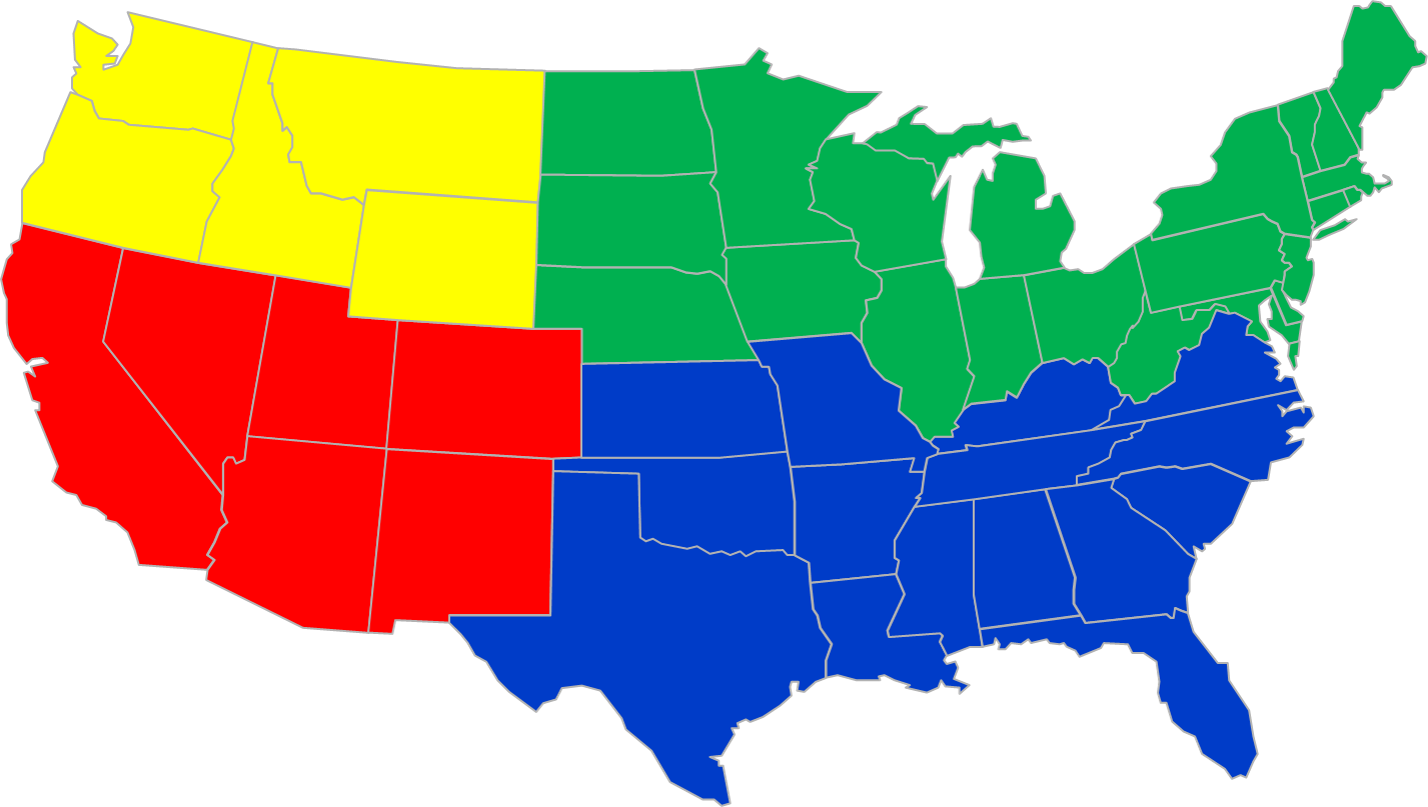
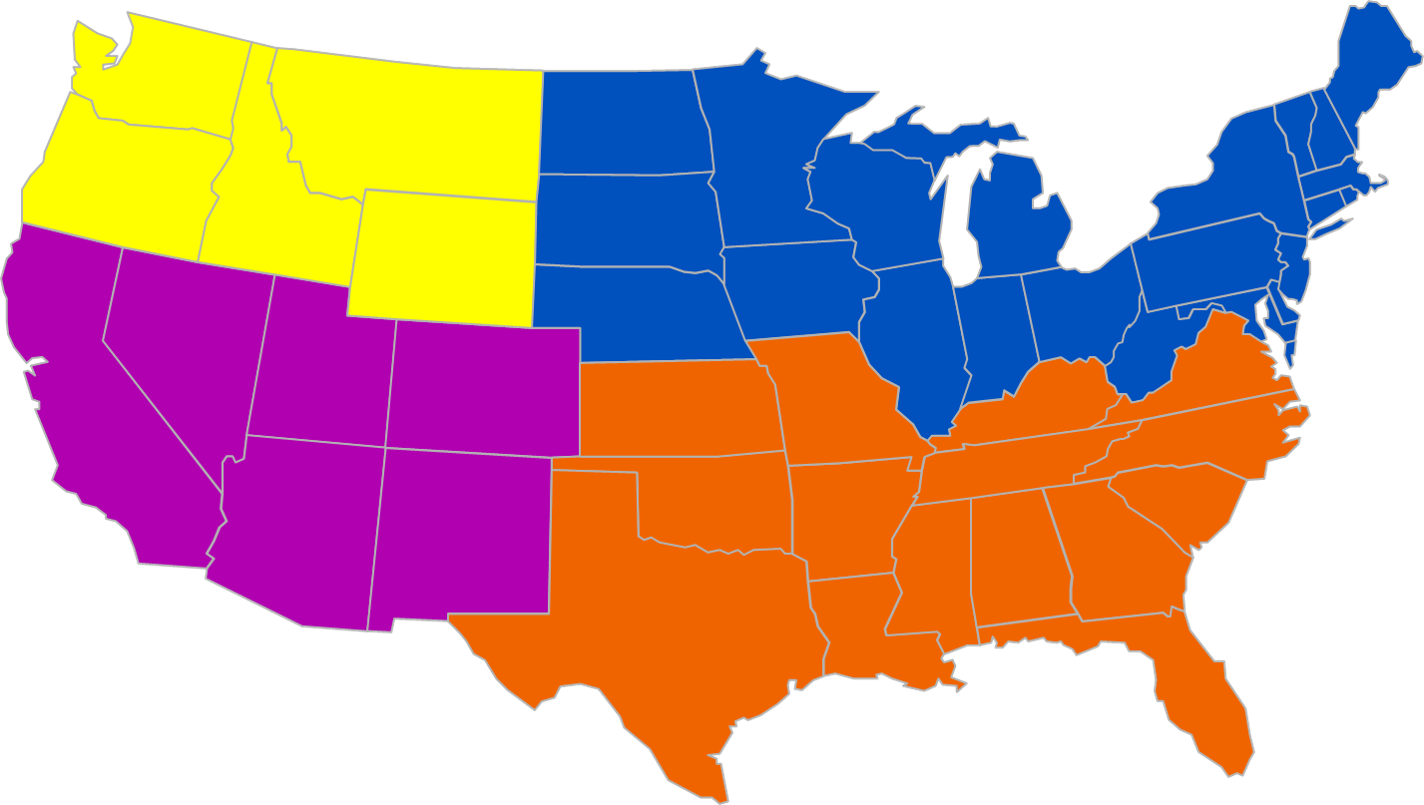
legend colors updated. legend improvement.

diff --git a/chord/index2.html b/chord/index2.html
@@ -171,17 +171,17 @@ d3.csv("cities.csv", function(cities){
     if (city[i].quad == "NW") NW++;
   };
 
-  //NE is green
+  //NE is blue
   var NE_color = d3.scale.linear()
     .domain([0,NE+1])
     .range([d3.rgb(0,165,255),d3.rgb(0,0,124)]);
 
-  //SE is blue
+  //SE is orange
   var SE_color = d3.scale.linear()
     .domain([0,SE+1])
     .range([d3.rgb(255,155,0),d3.rgb(180,45,0)]);
 
-  //SW is red
+  //SW is purple
   var SW_color = d3.scale.linear()
     .domain([0,SW+1])
     .range([d3.rgb(255,0,255),d3.rgb(64,0,64)]);
@@ -235,10 +235,11 @@ d3.json("matrix_pos.json", function(matrix_p) {
 
     //title
     svgp.append("text")
-      .text("--title of chart-")
-      .attr("font-size", 40)
-      .attr("x", 0)
-      .attr("y", 30);
+      .text("ChattyCity")
+      .attr("font-size", 36)
+      .attr("x", 10)
+      .attr("y", 30)
+      .attr("weight", "bold");
 
     //text
       legtext1 = "This visualization depicts the tweets exchanged among the 40 most populous cities in the US. The diagram on the left shows tweets with negative sentiment, while the one on the right shows tweets with positive sentiment."
@@ -270,17 +271,20 @@ d3.json("matrix_pos.json", function(matrix_p) {
 //legend diagram
 
     var legend_data = [
-      [ 8010, 16145, 8090, 8045],
-      [ 1951, 10048, 2060, 6171],
-      [11975,  5871, 8916, 2868],
-      [ 1013,   990,  940, 6907]
+      [ 0, 16, 0, 8, 4 ,5],
+      [ 0, 0, 3, 0, 0 ,4],
+      [7,  6, 1, 1, 1 ,5],
+      [ 2, 0, 2, 0, 4 ,5],
+      [12,  6, 0, 2, 0 ,5],
+      [ 1,  1,  9, 0, 5 ,0]
     ];
 
-    var legend_fill = [d3.rgb(0,255,0), d3.rgb(0,100,164), d3.rgb(255,0,0), d3.rgb(255,255,0)];
+    var legend_fill = [d3.rgb(0,0,0), d3.rgb(0,80,190), d3.rgb(240,100,0), d3.rgb(0,0,0),d3.rgb(0,0,0), d3.rgb(176,0,176)];
 
     var layout3 = d3.layout.chord()
         .padding(.05)
         .sortSubgroups(d3.descending);
+        //.sortGroups(d3.descending);
 
     var chord3 = layout3.matrix(legend_data);
 
@@ -296,6 +300,16 @@ d3.json("matrix_pos.json", function(matrix_p) {
       .attr("class", "circle")
       .attr("transform", "translate(" + 60 + "," + 220 + ")");
 
+      svg3.append("circle")
+        .attr("r", 50)
+        .attr("stroke", "black")
+        .attr("opacity", 0.3);
+
+      svg3.append("circle")
+        .attr("r", 40)
+        .attr("stroke", "black")
+        .attr("opacity", 0.3);
+
     var group3 = svg3.selectAll(".group")
       .data(layout3.groups)
       .enter().append("g")
@@ -304,7 +318,8 @@ d3.json("matrix_pos.json", function(matrix_p) {
     var groupPath3 = group3.append("path")
         .attr("id", function(d, i) { return "group" + i; })
         .attr("d", legend_arc)
-        .style("fill", function(d, i) { return legend_fill[i]; });
+        .style("fill", function(d, i) { return legend_fill[i]; })
+        .style("opacity", function(d,i) { var n = 0; if( i == 2 || i == 5 || i == 1) { n = 1; } return n;}); //opacity: kill all but 2
 
     var chord3 = svg3.selectAll(".chord")
         .data(layout3.chords)
@@ -312,7 +327,51 @@ d3.json("matrix_pos.json", function(matrix_p) {
         .attr("class", "chord")
         .style("fill", function(d) { return legend_fill[d.target.index]; })
         .attr("d", legend_path)
-        .style("opacity", function(d,i) { return i/3;}); //opacity: kill all but 2
+        .style("opacity", function(d,i) { var n = 0; if( i == 11 || i == 5) { n = i/22 + 0.2; } return n;});
+
+    var ticks3 = group3.selectAll("g")
+        .data(groupTicksLegend)
+      .enter().append("g")
+        .attr("transform", function(d) {
+          return "rotate(" + (d.angle * 180 / Math.PI - 90) + ")"
+              + "translate(" + 50 + ",0)";
+        });
+
+    ticks3.append("text")
+        .attr("x",5)
+        .attr("dy", ".35em")
+        .attr("transform", function(d) { return d.angle > Math.PI ? "rotate(180)translate(-10)" : null; })
+        .style("text-anchor", "middle")
+        .text(function(d) { return d.label; });
+
+
+    function groupTicksLegend(d) {
+      var legend_ticks = ["","A","B","","","C"]
+      var k = (d.endAngle - d.startAngle) / 2;
+      return d3.range(1).map(function(v, i) {
+        return {
+          angle: k + d.startAngle,
+          label: legend_ticks[d.index]
+        };
+      });
+    }
+
+    svg3.append("text")
+      .text("B→C")
+      .attr({
+        x: -35,
+        y: 6
+      })
+      .style("font-size", 10);
+
+    svg3.append("text")
+      .text("A→B")
+      .attr({
+        x: 11,
+        y: 10
+      })
+      .style("font-size", 10);
+
 
 // legend text
 
@@ -320,16 +379,16 @@ d3.json("matrix_pos.json", function(matrix_p) {
 
       svgp.append("text")
       .text(legtext3)
-      .attr("transform", "translate("+120+",0)")
+      .attr("transform", "translate("+130+",0)")
       .attr("y",190)
-      .call(wrap, boxw-130);
+      .call(wrap, boxw-140);
 
-      legtext4 = "Hover over the diagram for more details about each city. You can also zoom.";
+      legtext4 = "Hover over the diagrams for more details about each city.";
 
       svgp.append("text")
       .text(legtext4)
       .attr("transform", "translate("+sumtext+",0)")
-      .attr("y",290)
+      .attr("y",300)
       .call(wrap, boxw-20);
 
     //agg text
